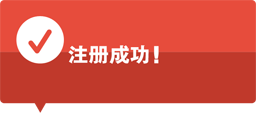
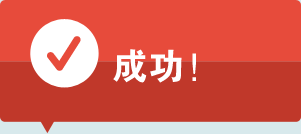
登录页增加修改昵称和绑定序列号分支

diff --git a/app/controllers/accounts_controller.rb b/app/controllers/accounts_controller.rb
@@ -10,11 +10,23 @@ class AccountsController < ApplicationController
       (redirect_to new_accounts_path(params[:device_id]), :alert => t("messages.accounts.serial_error"); return) if serial.blank? ||
                                                                                             serial.activate_cd == 1
     end
-
     activate_map = ActivateMap.find{ |o| o.device_id == params[:device_id] }
     activate_map = ActivateMap.create(device_id: params[:device_id]) if activate_map.blank?
-    @account = activate_map.accounts.new params[:account]
-    if activate_map.save
+    @account = Account.find_by_email params[:account][:email]
+    if @account.blank?
+      @account = activate_map.accounts.new params[:account]
+      result = activate_map.save
+    else
+       (redirect_to new_accounts_path(params[:device_id]), :alert => t("messages.accounts.password_error"); return) if 
+                                                                                            !@account.valid_password?(params[:account][:password])
+      @account.nickname = params[:account][:nickname]
+      @account.password = @account.password_confirmation = params[:account][:password]
+      result = @account.save
+      activate_map.accounts << @account if !activate_map.accounts.include?(@account)
+    end
+    if result
+      (redirect_to new_accounts_path(params[:device_id]), :alert => t("messages.accounts.re_serial_error"); return) if 
+                                                                                           @account.map_serial_number.present?
       if serial.present?
         serial.account_id = @account.id
         serial.activate_cd = 1
@@ -23,7 +35,7 @@ class AccountsController < ApplicationController
       redirect_to success_accounts_path
     else
       render :new
-    end
+    end 
   end
 
   def success
